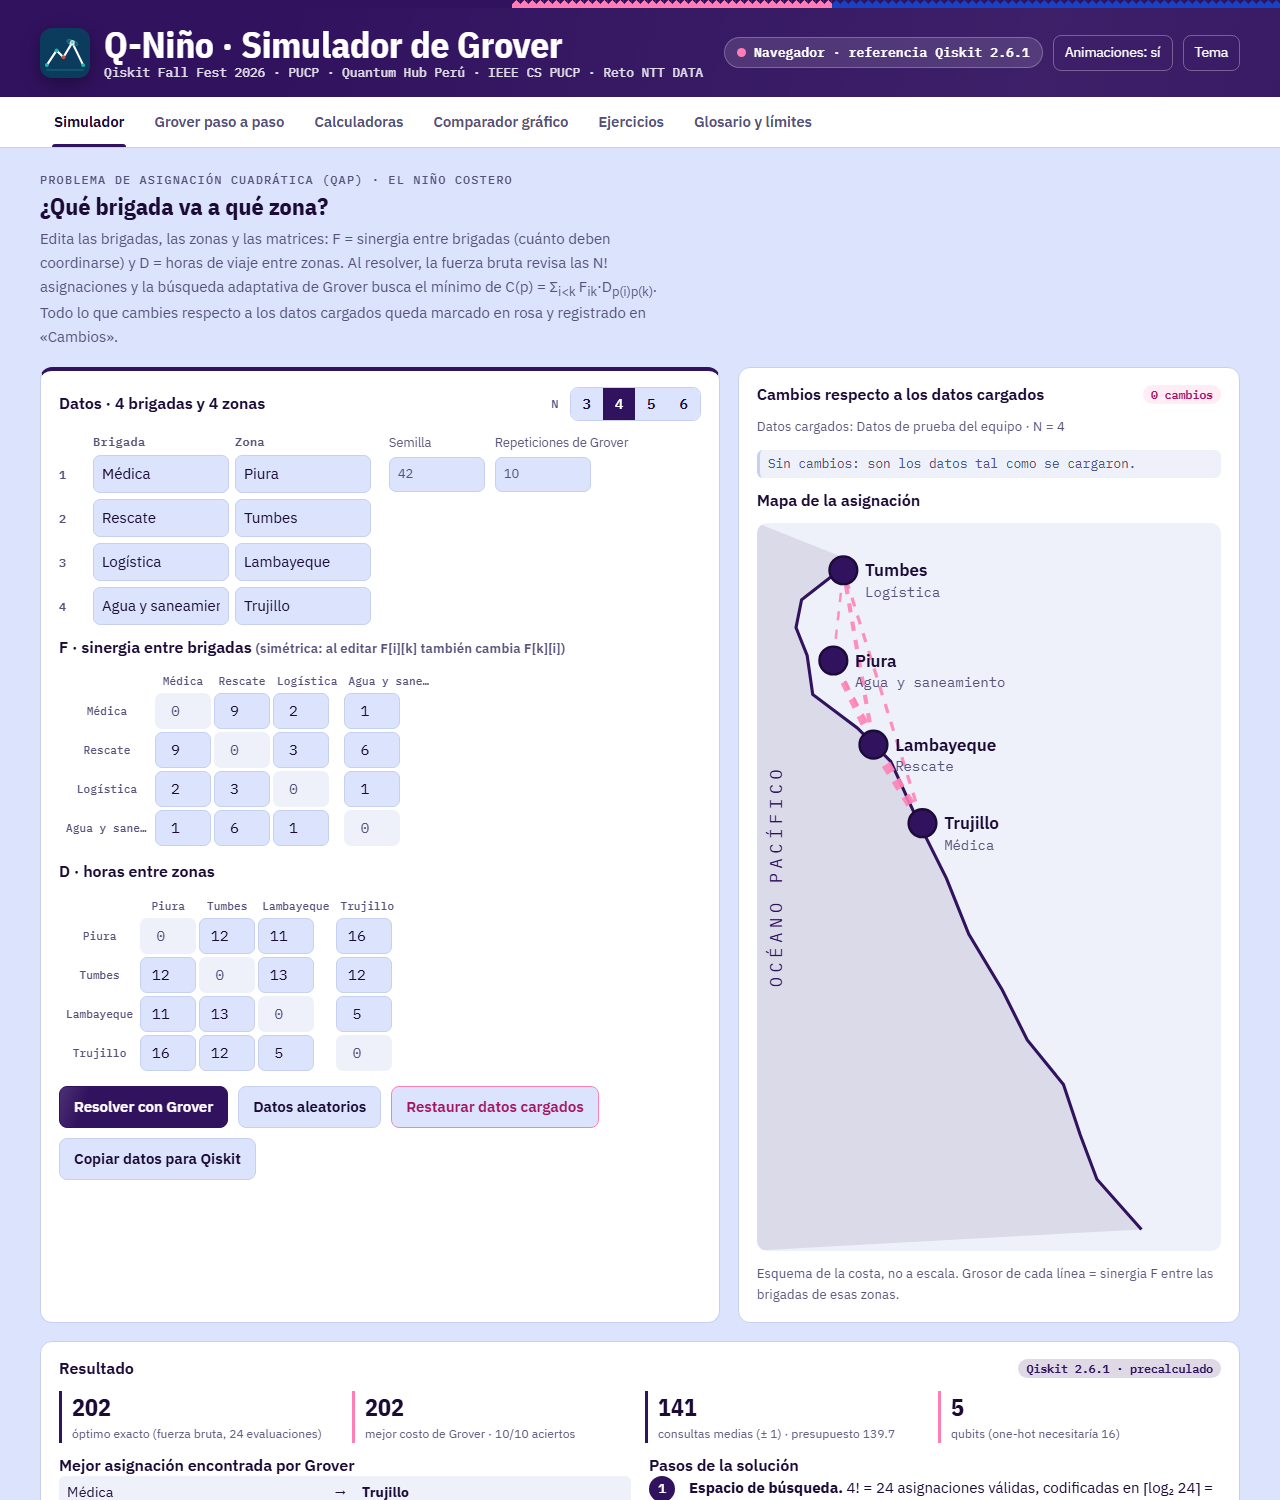
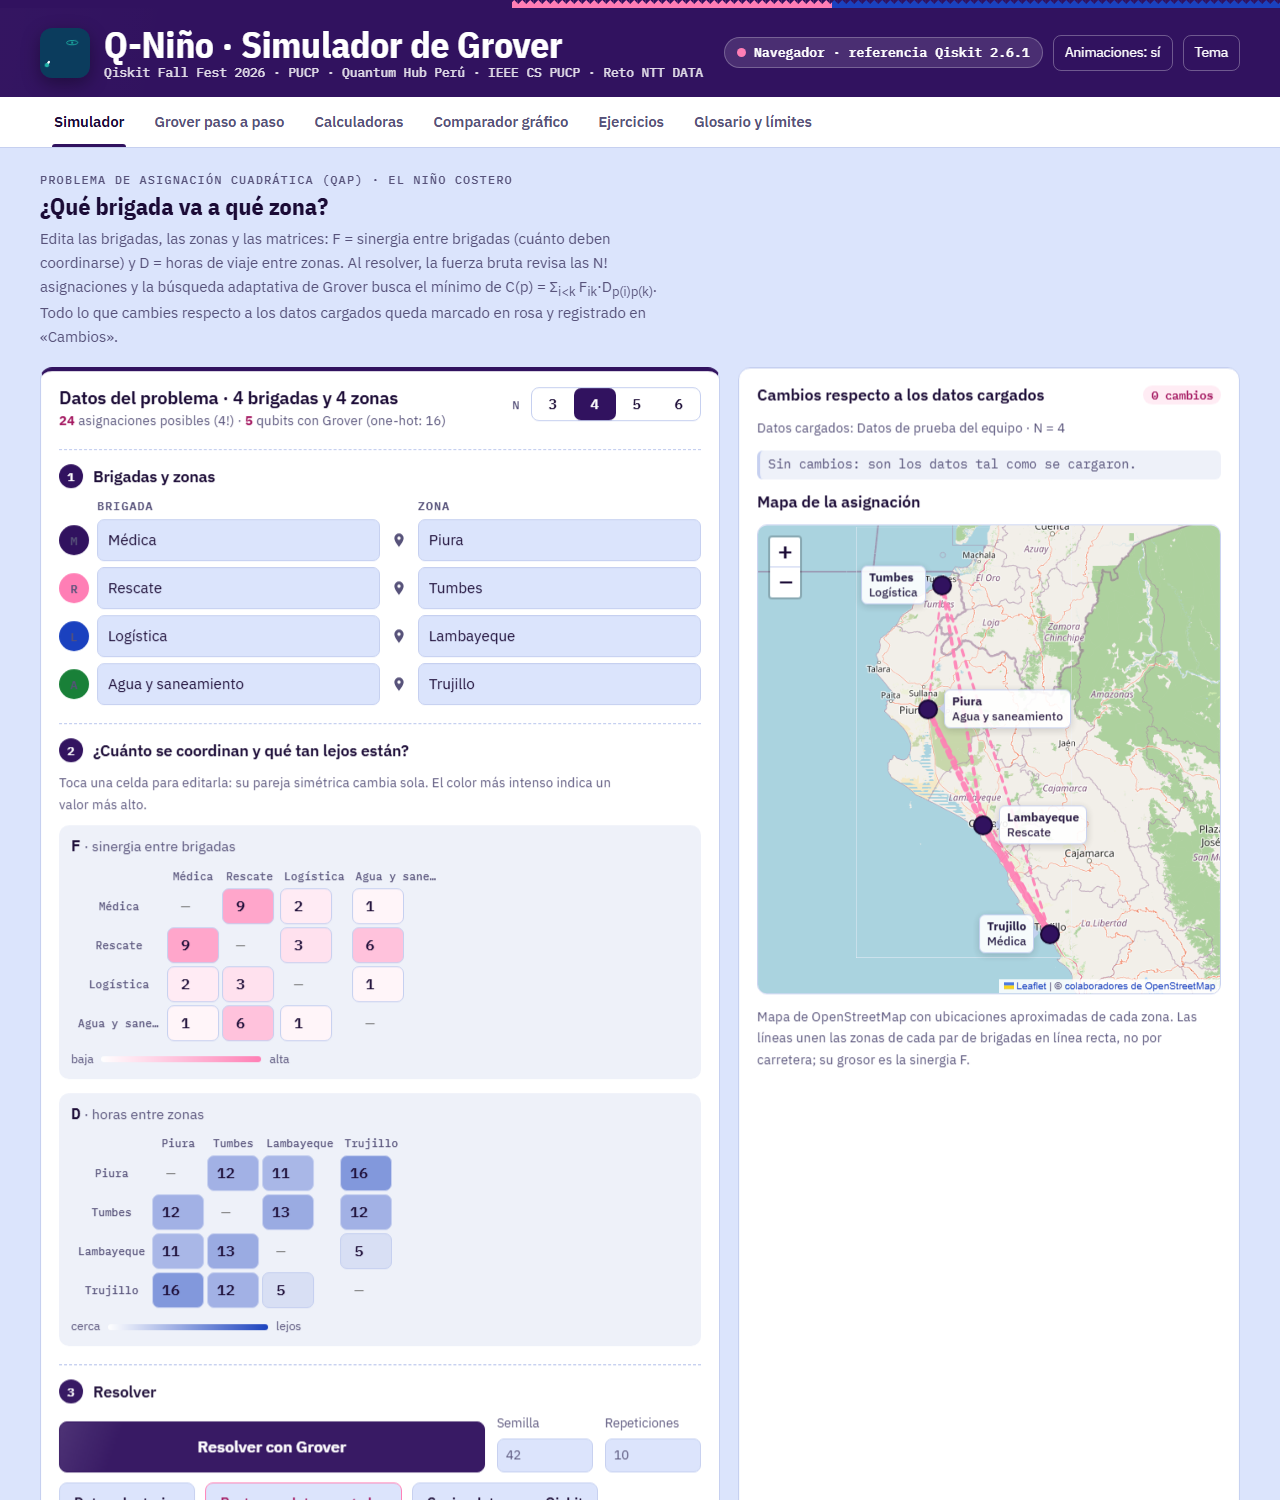
Rediseñar el editor de datos del Simulador con pasos y animaciones
- Tres pasos numerados: brigadas y zonas, matrices y resolver.
- Avatares por brigada, pines por zona y un contador de asignaciones y qubits.
- Matrices F y D como mapa de calor, con resaltado de fila, columna y
  celda simétrica al editar.
- Animaciones: N con indicador deslizante, celdas nuevas que aparecen,
  cascada al generar datos aleatorios y botón de resolver que late.

diff --git a/js/app.js b/js/app.js
@@ -61,18 +61,42 @@ function resize(n) {
   cur.zonas = [...Array(n)].map((_, i) => cur.zonas[i] ?? base.zonas[i] ?? ZON[i] ?? `Zona ${i + 1}`);
   const grow = (M, b, def) => [...Array(n)].map((_, i) => [...Array(n)].map((_, k) => i === k ? 0 : (i < old && k < old ? M[i][k] : (b[i]?.[k] ?? def))));
   cur.F = grow(cur.F, base.F, 5); cur.D = grow(cur.D, base.D, 10);
-  renderEditor(); onChange();
+  renderEditor({ count: true }); onChange();
 }
-function renderEditor() {
-  const n = cur.F.length;
-  $("dataTitle").textContent = `Datos · ${n} brigadas y ${n} zonas`;
-  seg("nSel", [3, 4, 5, 6], n, resize);
-  $("names").innerHTML = `<div class="pair"><span></span><span>Brigada</span><span>Zona</span></div>` + [...Array(n)].map((_, i) =>
-    `<div class="pair"><span>${i + 1}</span><input type="text" maxlength="24" data-nm="brigadas" data-i="${i}" value="${esc(cur.brigadas[i])}" aria-label="Nombre de la brigada ${i + 1}"><input type="text" maxlength="24" data-nm="zonas" data-i="${i}" value="${esc(cur.zonas[i])}" aria-label="Nombre de la zona ${i + 1}"></div>`).join("");
-  const mat = (key, labels) => `<tr><th></th>${labels.map(l => `<th title="${esc(l)}">${esc(l)}</th>`).join("")}</tr>` + cur[key].map((row, i) =>
-    `<tr><th title="${esc(labels[i])}">${esc(labels[i])}</th>${row.map((v, k) => `<td><input type="number" min="0" max="999" step="1" data-m="${key}" data-i="${i}" data-k="${k}" value="${v}" ${i === k ? "disabled" : ""} aria-label="${key}[${labels[i]}][${labels[k]}]"></td>`).join("")}</tr>`).join("");
+const PAL = ["--qiskit", "--otono", "--qiskit-2", "--ok", "--qiskit", "--otono"];
+const PIN = `<svg viewBox="0 0 24 24" width="16" height="16" aria-hidden="true"><path d="M12 2a7 7 0 0 0-7 7c0 5 7 13 7 13s7-8 7-13a7 7 0 0 0-7-7zm0 9.5A2.5 2.5 0 1 1 12 6.5a2.5 2.5 0 0 1 0 5z" fill="currentColor"/></svg>`;
+let lastN = null;
+// opts.count: animar los contadores · opts.shuffle: cascada en todas las celdas (datos aleatorios)
+function renderEditor(opts = {}) {
+  const n = cur.F.length, M = G.fact(n), q = G.qubits(M), from = lastN && n > lastN ? lastN : n; lastN = n;
+  $("dataTitle").textContent = `Datos del problema · ${n} brigadas y ${n} zonas`;
+  $("dataChip").innerHTML = `<b class="cnt">${M}</b> asignaciones posibles (${n}!) · <b class="cnt">${q}</b> qubits con Grover (one-hot: ${n * n})`;
+  if (opts.count) document.querySelectorAll("#dataChip .cnt").forEach(countUp);
+  seg("nSel", [3, 4, 5, 6], n, resize); $("nSel").style.setProperty("--x", n - 3);
+  $("names").innerHTML = `<div class="pair head"><span></span><span>Brigada</span><span></span><span>Zona</span></div>` + [...Array(n)].map((_, i) =>
+    `<div class="pair ${i >= from ? "grow" : ""}" style="--i:${i}"><span class="av" style="--c:var(${PAL[i]})">${esc((cur.brigadas[i] || "?")[0])}</span>` +
+    `<input type="text" maxlength="24" data-nm="brigadas" data-i="${i}" value="${esc(cur.brigadas[i])}" aria-label="Nombre de la brigada ${i + 1}">` +
+    `<span class="pin" title="Zona ${i + 1}">${PIN}</span><input type="text" maxlength="24" data-nm="zonas" data-i="${i}" value="${esc(cur.zonas[i])}" aria-label="Nombre de la zona ${i + 1}"></div>`).join("");
+  const mat = (key, labels) => `<tr><th></th>${labels.map((l, k) => `<th title="${esc(l)}" data-col="${k}">${esc(l)}</th>`).join("")}</tr>` + cur[key].map((row, i) =>
+    `<tr><th title="${esc(labels[i])}" data-row="${i}">${esc(labels[i])}</th>${row.map((v, k) => {
+      const cls = [i >= from || k >= from ? "grow" : "", opts.shuffle && i !== k ? "shuf" : ""].join(" ");
+      return `<td><input type="number" min="0" max="999" step="1" class="${cls}" style="--i:${opts.shuffle ? i * n + k : i + k}" data-m="${key}" data-i="${i}" data-k="${k}" value="${i === k ? "" : v}" placeholder="${i === k ? "—" : ""}" ${i === k ? "disabled" : ""} aria-label="${key}[${labels[i]}][${labels[k]}]"></td>`; }).join("")}</tr>`).join("");
   $("matF").innerHTML = mat("F", cur.brigadas); $("matD").innerHTML = mat("D", cur.zonas);
+  heat("F"); heat("D");
 }
+// Mapa de calor: --h (0–1) según el valor relativo al máximo de la matriz
+function heat(key) {
+  const mx = Math.max(1, ...cur[key].flat());
+  document.querySelectorAll(`[data-m="${key}"]`).forEach(el => { const i = +el.dataset.i, k = +el.dataset.k; el.style.setProperty("--h", i === k ? 0 : (cur[key][i][k] / mx).toFixed(2)); });
+}
+// Al enfocar una celda: se resaltan su fila, su columna y su pareja simétrica
+document.addEventListener("focusin", e => {
+  document.querySelectorAll(".mat .hl, .mat .twin").forEach(x => x.classList.remove("hl", "twin"));
+  const t = e.target; if (!t.dataset?.m) return;
+  const tb = t.closest("table"), i = +t.dataset.i, k = +t.dataset.k;
+  tb.querySelector(`th[data-row="${i}"]`)?.classList.add("hl"); tb.querySelector(`th[data-col="${k}"]`)?.classList.add("hl");
+  tb.querySelector(`[data-i="${k}"][data-k="${i}"]`)?.classList.add("twin");
+});
 const esc = s => String(s).replace(/&/g, "&amp;").replace(/"/g, "&quot;").replace(/</g, "&lt;");
 
 document.addEventListener("input", e => {
@@ -82,10 +106,12 @@ document.addEventListener("input", e => {
     if (!Number.isInteger(v) || v < 0 || v > 999) { $("err").hidden = false; $("err").textContent = `${t.dataset.m}: usa enteros entre 0 y 999.`; return; }
     $("err").hidden = true;
     cur[t.dataset.m][i][k] = v; cur[t.dataset.m][k][i] = v;                // matriz simétrica
+    heat(t.dataset.m);
     const twin = document.querySelector(`[data-m="${t.dataset.m}"][data-i="${k}"][data-k="${i}"]`); if (twin) twin.value = v;
     onChange();
   } else if (t.dataset.nm) {
     cur[t.dataset.nm][+t.dataset.i] = t.value.trim() || (t.dataset.nm === "brigadas" ? "Brigada " : "Zona ") + (+t.dataset.i + 1);
+    if (t.dataset.nm === "brigadas") { const av = t.parentElement.querySelector(".av"); if (av) av.textContent = (t.value.trim() || "?")[0]; }
     onChange(true);
   }
 });
@@ -113,7 +139,7 @@ function onChange(namesOnly) {
   drawMap();
 }
 $("restore").onclick = () => { cur = clone({ brigadas: base.brigadas, zonas: base.zonas, F: base.F, D: base.D }); renderEditor(); onChange(); toast("Datos restaurados"); };
-$("randomize").onclick = () => { const n = cur.F.length, r = () => Math.random(); for (let i = 0; i < n; i++) for (let k = i + 1; k < n; k++) { cur.F[i][k] = cur.F[k][i] = 1 + Math.floor(r() * 9); cur.D[i][k] = cur.D[k][i] = 5 + Math.floor(r() * 15); } renderEditor(); onChange(); };
+$("randomize").onclick = () => { const n = cur.F.length, r = () => Math.random(); for (let i = 0; i < n; i++) for (let k = i + 1; k < n; k++) { cur.F[i][k] = cur.F[k][i] = 1 + Math.floor(r() * 9); cur.D[i][k] = cur.D[k][i] = 5 + Math.floor(r() * 15); } renderEditor({ shuffle: true }); onChange(); toast("Matrices aleatorias generadas"); };
 $("export").onclick = () => {
   const txt = JSON.stringify({ brigadas: cur.brigadas, zonas: cur.zonas, F: cur.F, D: cur.D, semilla: +$("seed").value, repeticiones: +$("reps").value }, null, 1);
   const ok = () => toast("Copiado. Guárdalo como datos.json y ejecuta: python qiskit_grover.py --datos datos.json");

diff --git a/css/styles.css b/css/styles.css
@@ -99,7 +99,7 @@ input[type=range]{accent-color:var(--otono);width:100%}
 .mat td{padding:0}
 .mat input{width:56px;text-align:center;font-family:var(--mono);padding:5px 2px}
 .mat input:disabled{background:var(--sunk);color:var(--muted);border-color:transparent}
-.changed{border-color:var(--otono)!important;box-shadow:0 0 0 2px color-mix(in srgb,var(--otono) 30%,transparent);background:color-mix(in srgb,var(--otono) 8%,var(--bg))!important}
+.changed{border-color:var(--otono)!important;box-shadow:0 0 0 2px color-mix(in srgb,var(--otono) 30%,transparent)}
 .scroll{overflow-x:auto}
 .changes{display:grid;gap:4px;font:.8rem/1.45 var(--mono);max-height:220px;overflow:auto}
 .changes div{padding:5px 8px;border-radius:6px;background:var(--sunk);border-left:3px solid var(--otono)}
@@ -292,3 +292,64 @@ html.motion section.view:not([hidden]) .flist li{animation:fadeUp .45s cubic-bez
 html.motion .flist .fn{transition:transform .3s}
 html.motion .flist li:hover .fn{transform:rotate(360deg)}
 #v-glosario .g2e{align-items:start}
+
+/* ---------------- Editor de datos (Simulador) ---------------- */
+.editor{gap:18px}
+.ehead{display:flex;justify-content:space-between;align-items:flex-start;gap:12px;flex-wrap:wrap}
+.ehead h3{font-size:1.1rem}
+#dataChip b{color:var(--otono-ink);font-variant-numeric:tabular-nums}
+.estep{display:grid;gap:10px;padding-top:14px;border-top:1px dashed var(--line)}
+.estep h4{margin:0;display:flex;align-items:center;gap:10px;font:600 .98rem var(--sans)}
+.snum{width:24px;height:24px;flex:none;border-radius:50%;display:grid;place-items:center;font:700 .78rem var(--mono);background:var(--qiskit);color:var(--on-qiskit)}
+
+/* N con indicador deslizante */
+.seg.slide{position:relative;isolation:isolate}
+.seg.slide button{width:42px;background:transparent;position:relative;z-index:1;transition:color .25s}
+.seg.slide::before{content:"";position:absolute;z-index:0;top:0;bottom:0;left:0;width:42px;background:var(--qiskit);border-radius:7px;transform:translateX(calc(var(--x,0) * 42px));transition:transform .35s cubic-bezier(.3,1.3,.5,1)}
+.seg.slide button[aria-pressed="true"]{background:transparent;color:var(--on-qiskit)}
+
+/* Brigadas → zonas */
+.names .pair{grid-template-columns:30px minmax(0,1fr) 22px minmax(0,1fr);gap:8px}
+.names .pair.head span{font:600 .74rem var(--mono);text-transform:uppercase;letter-spacing:.08em;color:var(--muted)}
+.av{width:30px;height:30px;border-radius:50%;display:grid;place-items:center;font:700 .9rem var(--sans);background:var(--c);color:var(--on-qiskit)}
+.pin{display:grid;place-items:center;color:var(--otono-ink)}
+.names input{padding:8px 10px}
+
+/* Matrices como mapa de calor */
+.mats{display:grid;grid-template-columns:repeat(auto-fit,minmax(min(100%,430px),1fr));gap:14px}
+.matbox{display:grid;gap:6px;padding:10px 12px;border-radius:10px;background:var(--sunk);min-width:0}
+.matbox .mt{font-size:.88rem;color:var(--muted)}
+.matbox .mt b{font:700 1rem var(--mono);color:var(--ink)}
+.mat th{transition:color .2s,background .2s;border-radius:5px}
+.mat th.hl{color:var(--ink);background:color-mix(in srgb,var(--qiskit) 14%,transparent)}
+.mat input{width:52px;font-weight:600;color:var(--ink);transition:background-color .35s,box-shadow .2s,transform .15s}
+.heat-f input:not(:disabled){background:color-mix(in srgb,var(--otono) calc(var(--h,0) * 70%),var(--surface))}
+.heat-d input:not(:disabled){background:color-mix(in srgb,var(--qiskit-2) calc(var(--h,0) * 55%),var(--surface))}
+.mat input:disabled{background:transparent;border-style:dashed}
+.mat input:focus{outline:none;box-shadow:0 0 0 3px color-mix(in srgb,var(--qiskit-2) 45%,transparent);transform:scale(1.08)}
+.mat input.twin{box-shadow:0 0 0 2px var(--qiskit-2)}
+.scale{display:flex;align-items:center;gap:8px;font-size:.74rem;color:var(--muted)}
+.scale i{flex:1;height:6px;border-radius:3px;max-width:160px}
+.scale.f i{background:linear-gradient(90deg,var(--surface),var(--otono))}
+.scale.d i{background:linear-gradient(90deg,var(--surface),var(--qiskit-2))}
+
+/* Resolver */
+.run{display:flex;gap:12px;align-items:end;flex-wrap:wrap}
+.run label input{width:96px}
+.btn.big{padding:12px 22px;font-size:1rem;flex:1 1 220px;min-height:46px}
+.tools .btn{font-size:.88rem}
+
+/* Animaciones del editor */
+html.motion .names .pair.grow,html.motion .mat input.grow{animation:popIn .45s cubic-bezier(.3,1.4,.5,1) backwards;animation-delay:calc(var(--i,0) * 45ms)}
+html.motion .mat input.shuf{animation:shuf .5s ease-out backwards;animation-delay:calc(var(--i,0) * 22ms)}
+html.motion .av{transition:transform .3s}
+html.motion .names .pair:focus-within .av{transform:scale(1.15) rotate(-8deg)}
+html.motion .names .pair:focus-within .pin{animation:bounce .6s ease-out}
+html.motion .estep{animation:fadeUp .5s cubic-bezier(.2,.7,.2,1) backwards}
+html.motion .estep:nth-of-type(2){animation-delay:.08s}html.motion .estep:nth-of-type(3){animation-delay:.16s}
+html.motion .btn.main.big:not(:disabled){animation:breathe 2.8s ease-in-out infinite}
+html.motion .btn.main.big:disabled{background-image:linear-gradient(110deg,transparent 30%,rgba(255,255,255,.35) 50%,transparent 70%);background-size:250% 100%;animation:shine 1.1s linear infinite}
+@keyframes popIn{from{transform:scale(.6);opacity:0}}
+@keyframes shuf{0%{transform:rotateX(90deg)}60%{transform:rotateX(-12deg)}}
+@keyframes bounce{30%{transform:translateY(-4px)}60%{transform:translateY(1px)}}
+@keyframes breathe{50%{box-shadow:0 0 0 6px color-mix(in srgb,var(--qiskit) 18%,transparent)}}

diff --git a/index.html b/index.html
@@ -48,26 +48,34 @@
     <p>Edita las brigadas, las zonas y las matrices: F = sinergia entre brigadas (cuánto deben coordinarse) y D = horas de viaje entre zonas. Al resolver, la fuerza bruta revisa las N! asignaciones y la búsqueda adaptativa de Grover busca el mínimo de C(p) = Σ<sub>i&lt;k</sub> F<sub>ik</sub>·D<sub>p(i)p(k)</sub>. Todo lo que cambies respecto a los datos cargados queda marcado en rosa y registrado en «Cambios».</p></div>
 
   <div class="g2">
-    <div class="card accent">
-      <div class="row between"><h3 id="dataTitle">Datos</h3><div class="row"><span class="eyebrow">N</span><div class="seg" id="nSel"></div></div></div>
-      <div class="g2e">
-        <div class="names" id="names"></div>
-        <div class="row" style="align-content:start">
-          <label class="f">Semilla <input type="number" id="seed" value="42" min="0" max="99999" style="width:96px"></label>
-          <label class="f">Repeticiones de Grover <input type="number" id="reps" value="10" min="1" max="20" style="width:96px"></label>
+    <div class="card accent editor">
+      <div class="ehead">
+        <div><h3 id="dataTitle">Datos del problema</h3><p class="muted small" id="dataChip"></p></div>
+        <div class="row"><span class="eyebrow">N</span><div class="seg slide" id="nSel"></div></div>
+      </div>
+
+      <section class="estep" aria-labelledby="st1"><h4 id="st1"><span class="snum">1</span>Brigadas y zonas</h4>
+        <div class="names" id="names"></div></section>
+
+      <section class="estep" aria-labelledby="st2"><h4 id="st2"><span class="snum">2</span>¿Cuánto se coordinan y qué tan lejos están?</h4>
+        <p class="muted small">Toca una celda para editarla: su pareja simétrica cambia sola. El color más intenso indica un valor más alto.</p>
+        <div class="mats">
+          <div class="matbox"><div class="mt"><b>F</b> · sinergia entre brigadas</div><div class="scroll"><table class="mat heat-f" id="matF"></table></div><div class="scale f"><span>baja</span><i></i><span>alta</span></div></div>
+          <div class="matbox"><div class="mt"><b>D</b> · horas entre zonas</div><div class="scroll"><table class="mat heat-d" id="matD"></table></div><div class="scale d"><span>cerca</span><i></i><span>lejos</span></div></div>
         </div>
-      </div>
-      <h3>F · sinergia entre brigadas <span class="muted small">(simétrica: al editar F[i][k] también cambia F[k][i])</span></h3>
-      <div class="scroll"><table class="mat" id="matF"></table></div>
-      <h3>D · horas entre zonas</h3>
-      <div class="scroll"><table class="mat" id="matD"></table></div>
-      <p class="err" id="err" hidden></p>
-      <div class="row">
-        <button class="btn main" id="solve" type="button">Resolver con Grover</button>
-        <button class="btn" id="randomize" type="button">Datos aleatorios</button>
-        <button class="btn warn" id="restore" type="button">Restaurar datos cargados</button>
-        <button class="btn" id="export" type="button">Copiar datos para Qiskit</button>
-      </div>
+        <p class="err" id="err" hidden></p></section>
+
+      <section class="estep" aria-labelledby="st3"><h4 id="st3"><span class="snum">3</span>Resolver</h4>
+        <div class="run">
+          <button class="btn main big" id="solve" type="button">Resolver con Grover</button>
+          <label class="f">Semilla <input type="number" id="seed" value="42" min="0" max="99999"></label>
+          <label class="f">Repeticiones <input type="number" id="reps" value="10" min="1" max="20"></label>
+        </div>
+        <div class="row tools">
+          <button class="btn" id="randomize" type="button">Datos aleatorios</button>
+          <button class="btn warn" id="restore" type="button">Restaurar datos cargados</button>
+          <button class="btn" id="export" type="button">Copiar datos para Qiskit</button>
+        </div></section>
     </div>
 
     <div class="card">
